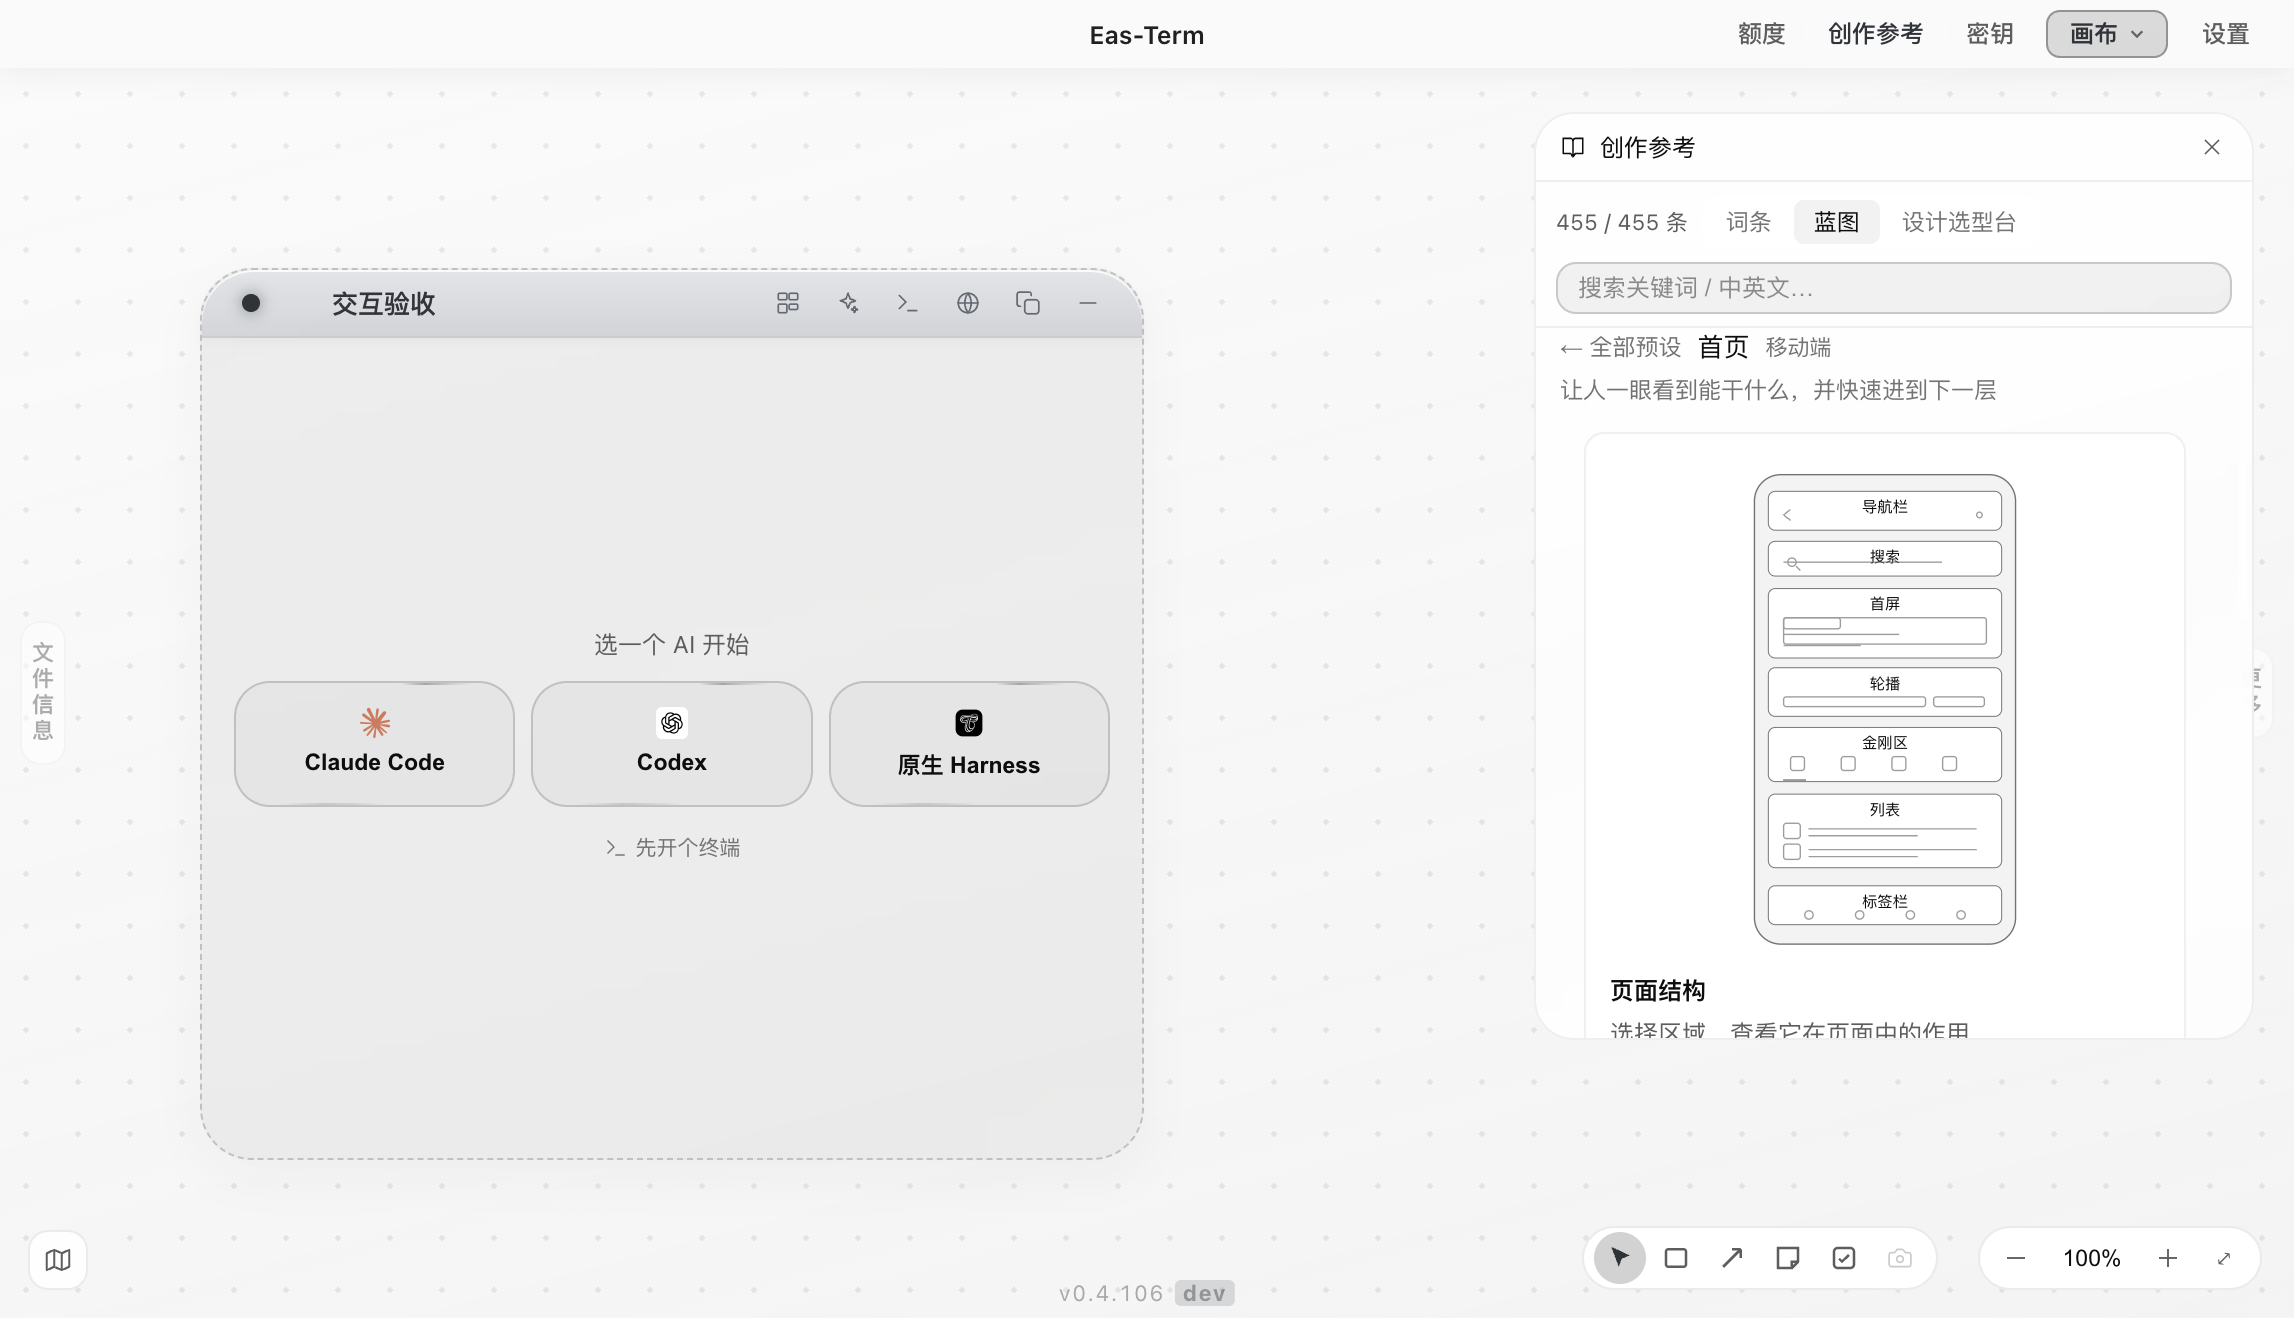
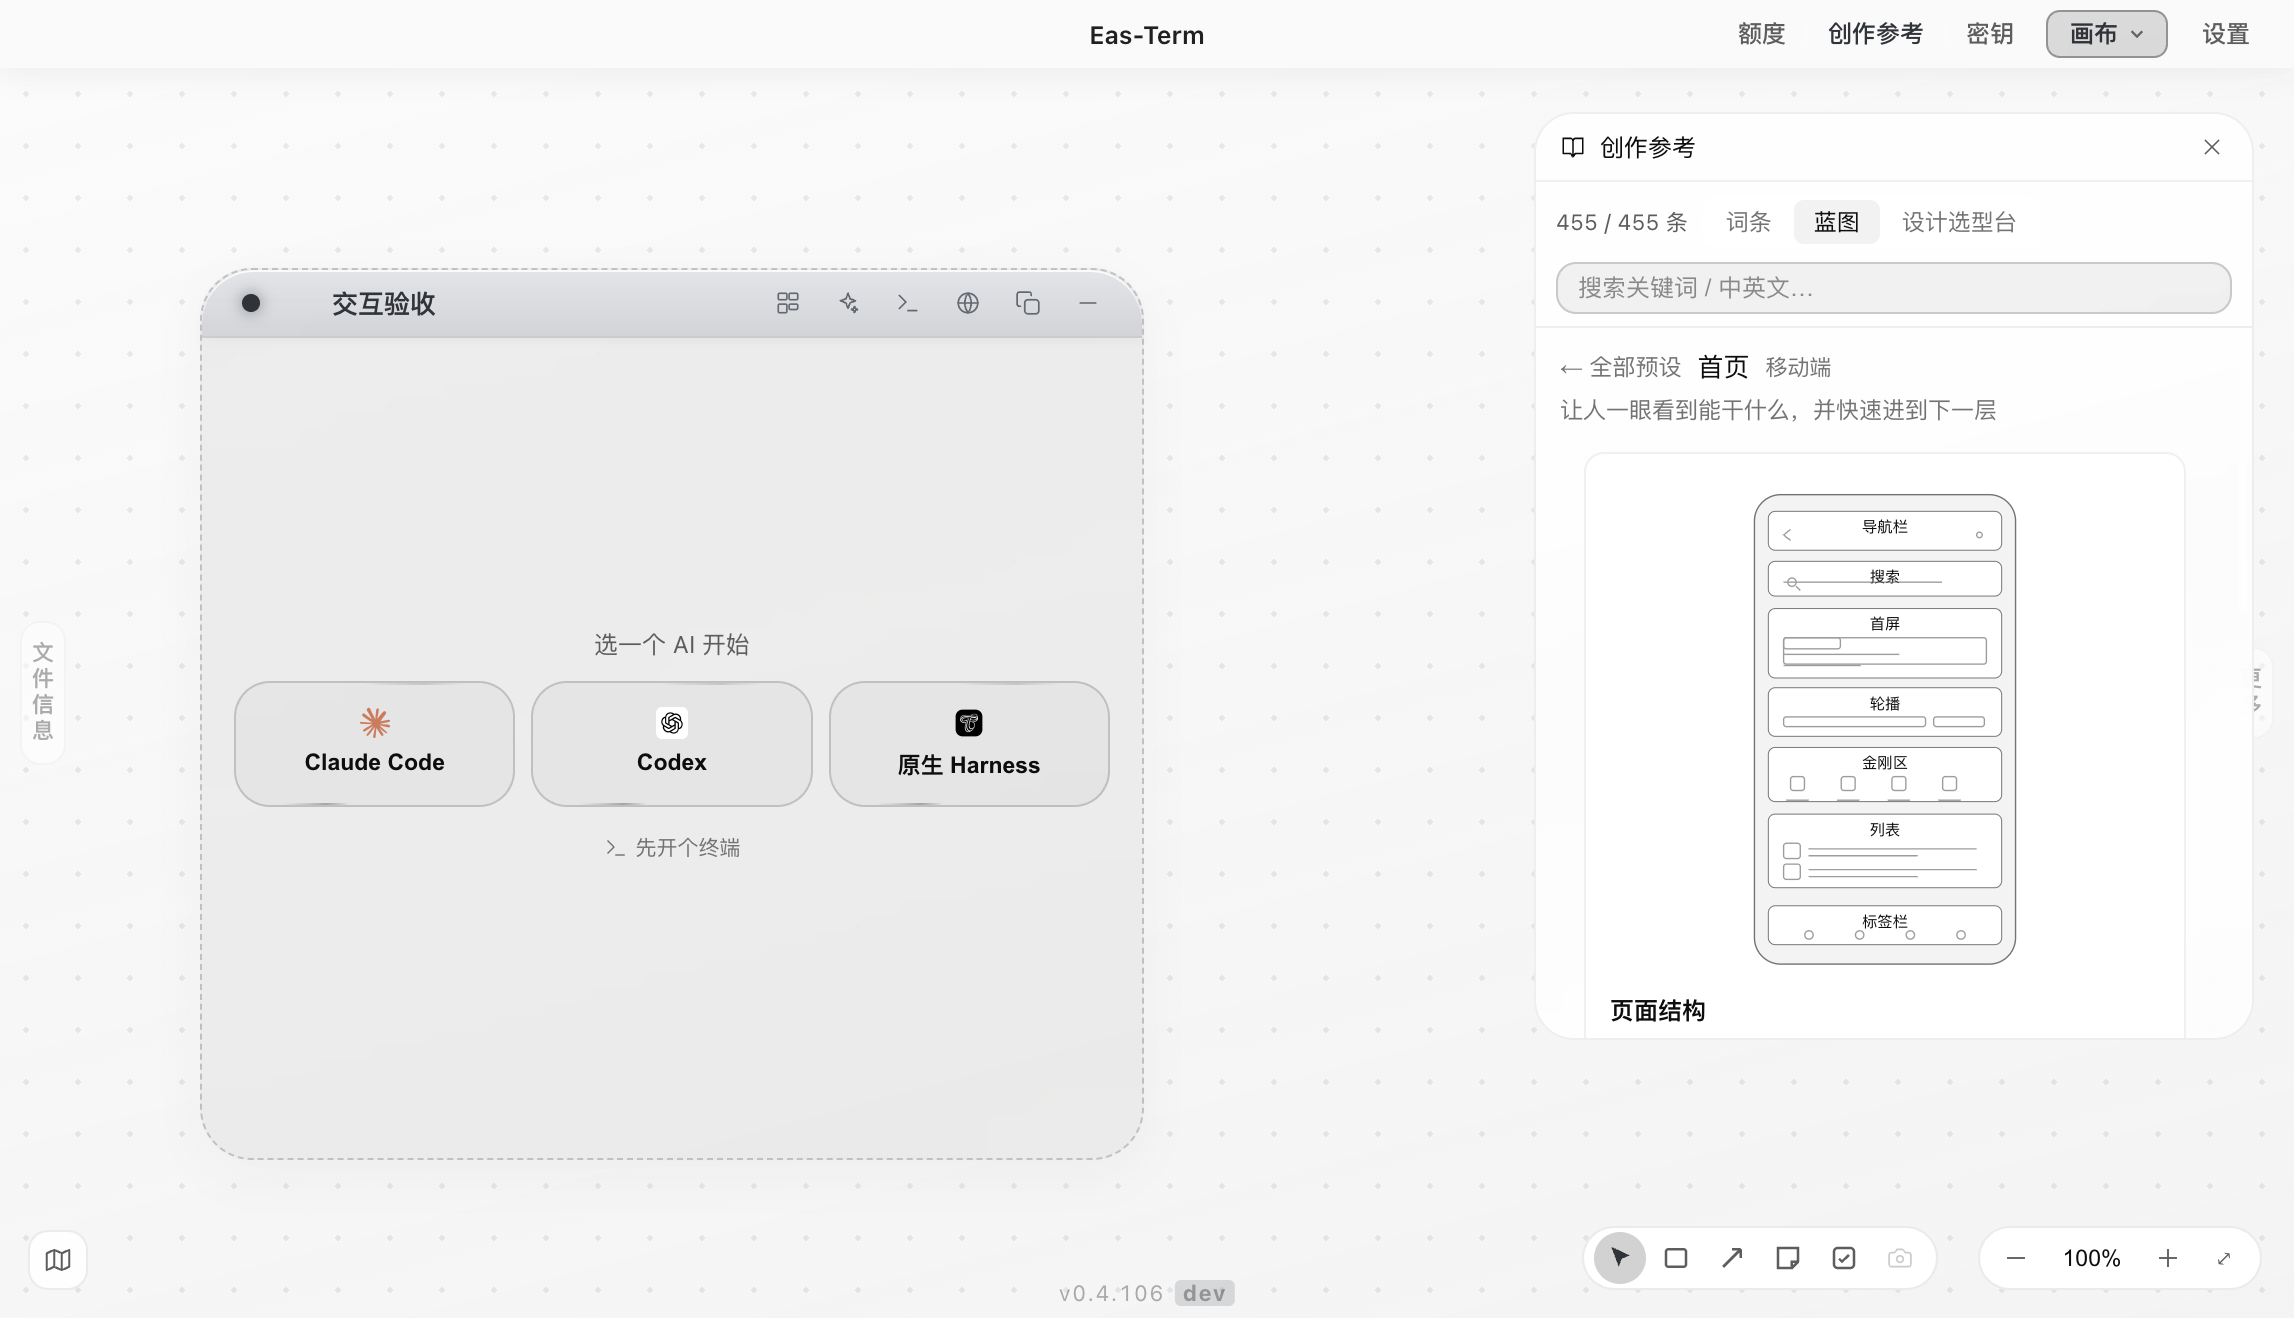
fix(dict): align blueprint wireframe details and reset switched preview

Changed region(s): [[0.7738, 0.3733, 0.8666, 0.7155], [0.6809, 0.2489, 0.8666, 0.3422], [0.6809, 0.7466, 0.8666, 0.8088]]

diff --git a/src/renderer/src/features/dict/BlueprintDiagram.tsx b/src/renderer/src/features/dict/BlueprintDiagram.tsx
@@ -13,7 +13,7 @@ interface Props {
 // Keep every mark neutral; the enclosing region alone handles inspect/selection color.
 function RegionWireframe({block,x,y,w,h,mobile}:{block:string;x:number;y:number;w:number;h:number;mobile:boolean}):JSX.Element{
  const left=x+11,right=x+w-11,top=y+21,inner=w-22
- const bar=(yy:number,width=inner)=> <path key={yy} d={`M${left} ${yy}h${width}`}/>
+ const bar=(yy:number,width=inner,start=left)=> <path key={`${start}-${yy}`} d={`M${start} ${yy}h${width}`}/>
  const tile=(xx:number,yy:number,ww:number,hh:number)=> <rect key={`${xx}-${yy}`} x={xx} y={yy} width={ww} height={hh} rx="2"/>
  let marks:JSX.Element|JSX.Element[]|null=null
  switch(block){
@@ -21,7 +21,7 @@ function RegionWireframe({block,x,y,w,h,mobile}:{block:string;x:number;y:number;
   case '搜索': marks=<><circle cx={left+6} cy={y+h-10} r="3"/><path d={`M${left+9} ${y+h-7}l3 3`}/>{bar(y+h-10,inner-32)}</>;break
   case '首屏': marks=<>{tile(left,top,inner,h-31)}{bar(top+12,inner*.57)}{bar(top+20,inner*.38)}{tile(left,top+h-50,inner*.28,8)}</>;break
   case '轮播': marks=<>{tile(left,top,inner*.7,h-28)}{tile(left+inner*.74,top,inner*.25,h-28)}</>;break
-  case '金刚区': marks=<>{[0,1,2,3].map(i=><g key={i}>{tile(left+i*inner/4+5,top,10,10)}{bar(top+17,Math.min(16,inner/4-8))}</g>)}</>;break
+  case '金刚区': marks=<>{[0,1,2,3].map(i=><g key={i}>{tile(left+i*inner/4+5,top,10,10)}{bar(top+17,Math.min(16,inner/4-8),left+i*inner/4+2)}</g>)}</>;break
   case '列表': marks=<>{[0,1,2].filter(i=>top+i*15+12<y+h-2).map(i=><g key={i}>{tile(left,top+i*15,12,11)}<path d={`M${left+18} ${top+i*15+4}h${inner-25}m-${inner-25} 5h${(inner-25)*.65}`}/></g>)}</>;break
   case '标签栏': marks=<>{[0,1,2,3].map(i=><circle key={i} cx={left+(i+.5)*inner/4} cy={y+h-7} r="3"/>)}</>;break
   case '图集': marks=<>{tile(left,top,inner,h-48)}{[0,1,2].map(i=>tile(left+i*(inner+4)/3,y+h-23,(inner-8)/3,10))}</>;break
@@ -32,7 +32,7 @@ function RegionWireframe({block,x,y,w,h,mobile}:{block:string;x:number;y:number;
   case '空状态': marks=<><circle cx={x+w/2} cy={top+10} r="8"/>{bar(top+27,inner*.55)}</>;break
   case '侧边栏': marks=<>{[0,1,2,3,4].map(i=>bar(top+i*23,inner*(i===0?.8:.65)))}</>;break
   case '表格': marks=<>{[0,1,2,3,4,5].map(i=><g key={i}>{bar(top+i*24,inner)}<path d={`M${left+inner*.45} ${top+i*24-7}v14`}/></g>)}</>;break
-  case '页脚': marks=<>{bar(y+h-10,inner*.25)}{bar(y+h-10,inner*.18)}</>;break
+  case '页脚': marks=<>{bar(y+h-10,inner*.25)}{bar(y+h-10,inner*.18,right-inner*.18)}</>;break
   default: marks=bar(top,inner*.7)
  }
  return <g className="bp-wireframe" aria-hidden="true" data-block={block} data-platform={mobile?'mobile':'desktop'}>{marks}</g>

diff --git a/src/renderer/src/features/dict/BlueprintPanel.tsx b/src/renderer/src/features/dict/BlueprintPanel.tsx
@@ -60,6 +60,9 @@ export function BlueprintPanel<T extends Term>({
   const slotsRef = useRef(new Map<string, HTMLDivElement>())
   const [jump, setJump] = useState<{block: string; bpId: string} | null>(null)
   useLayoutEffect(() => {
+    if (bpId) viewRef.current?.scrollTo({top: 0, behavior: 'instant'})
+  }, [bpId])
+  useLayoutEffect(() => {
     if (!jump || jump.bpId !== bpId) return
     const view = viewRef.current, slot = slotsRef.current.get(jump.block)
     if (view && slot) view.scrollTo({

diff --git a/docs/verification/blueprint-wireframe/README.md b/docs/verification/blueprint-wireframe/README.md
@@ -3,5 +3,8 @@
 
 - 主SVG以中性线框体现各区域实际布局：首屏主视觉、搜索框、轮播卡、金刚入口、列表行、底部导航、图集、表单、侧栏及表格等；缩略图保持简化。
 - 主图前置并在面板可见区完整呈现，说明移至图下；默认无色，悬停/选中才高亮。图/列表同色、点击局部跳转及键盘访问不变。
-- 新回归先2项失败，修改后共15项蓝图/样式相关测试通过。typecheck/build通过；隔离Electron真实界面28项通过（深/浅色、重复点击、键盘、减少动态）。已人工查看mobile、desktop和blueprint-light截图。
+- 新回归先2项失败，修改后共15项蓝图/样式相关测试通过。typecheck/build通过；隔离Electron真实界面37项通过（包括移动列表/详情/表单）（深/浅色、重复点击、键盘、减少动态）。已人工查看mobile、desktop和blueprint-light截图。
 - 增大主图初次使测试脚本点到滚动区外，测试点击前改为滚动目标SVG进入可见区；产品代码未为此叠补丁。主图最终缩至250px并前置，完整布局在首屏内可见。
+
+- 审查修正金刚区图标说明线与页脚线的起点，防止多条线重叠。
+- 延伸验收发现切换预设后旧的平滑滚动会继续把新蓝图卷到词条区；在蓝图ID变化时于layout effect同步复位到顶部。新增延时切换断言先失败、修正后通过。
